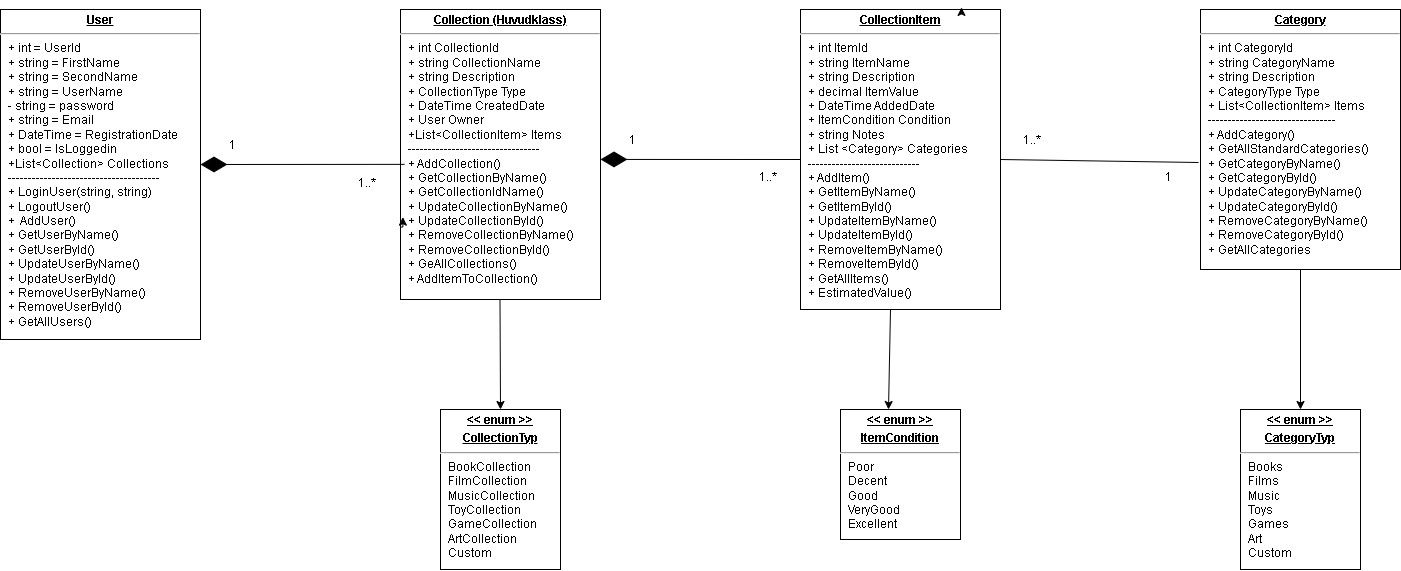
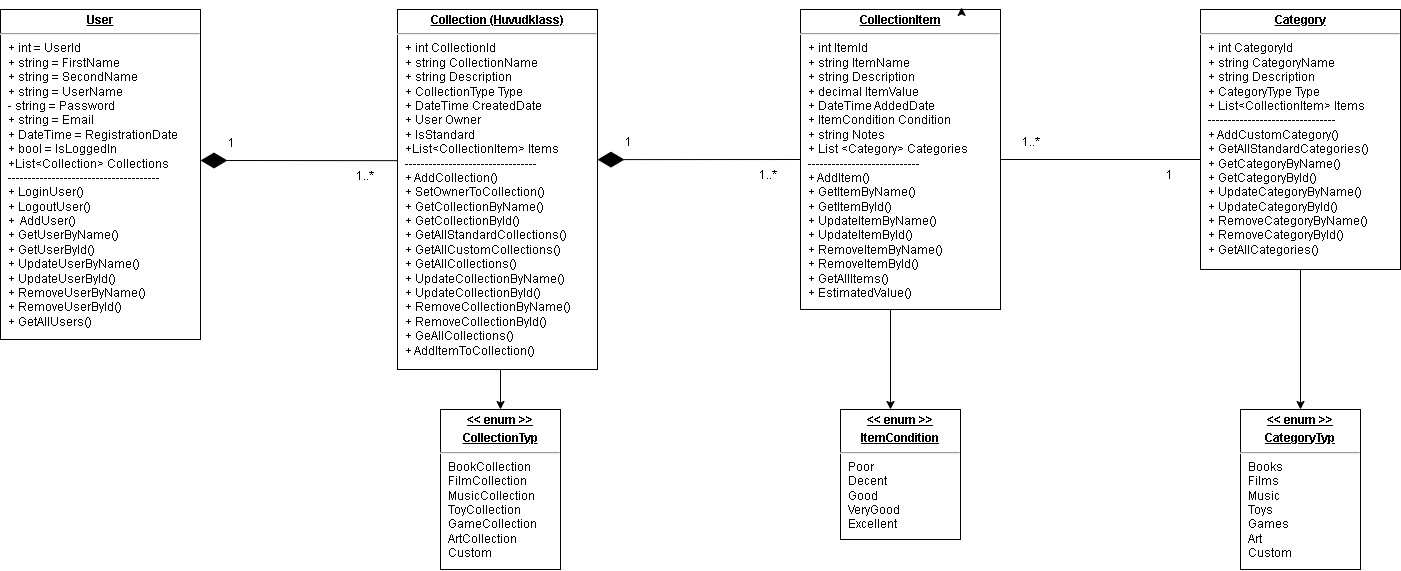
Added rest of the missing methods in the class diagram

diff --git a/Collection.cs b/Collection.cs
@@ -13,10 +13,10 @@ namespace TheCollectorApp
         public string Description { get; set; }
         // Olika typer av samlingar att välja mellan, kan vara fördefinierade eller anpassade
         public CollectionType Type { get; }
-        public List<CollectionItem> Items { get; set; }
         public DateTime CreateDate { get; }
         public User? Owner { get; set; } // Hämtar eller sätter en användare för samlingen. Kan vara null
         public bool IsStandard { get; } // True om samlingen är fördefinierad, annars False
+        public List<CollectionItem> Items { get; set; }
 
         // En statisk konstruktor med fördefinierade samlingar som körs en gång när programmet startar
         static Collection()

diff --git a/CollectionItem.cs b/CollectionItem.cs
@@ -127,7 +127,7 @@ namespace TheCollectorApp
 		}
 
 		// Uppdaterar det uppskattade värdet på ett samlingsobjekt baserat på ID
-		public static void EstimatedOwnValue(int id, decimal newValue)
+		public static void EstimatedValue(int id, decimal newValue)
 		{
 			foreach (CollectionItem item in items)
 			{

diff --git a/Category.cs b/Category.cs
@@ -42,7 +42,7 @@
             return category;
         }
 
-        // Returnerar endast alla fördefinierade kategorier
+        // Returnerar endast fördefinierade kategorier
         public static List<Category> GetAllStandardCategories()
         {
             var standardCategory = new List<Category>();

diff --git a/User.cs b/User.cs
@@ -14,7 +14,6 @@ namespace TheCollectorApp
         public string Email { get; set; }
         public DateTime RegistrationDate { get; } // Ska inte ändras
         public bool IsLoggedIn { get; set; }
-
         // lista med användarens samlingar
         public List<Collection> Collections { get; set; }
 
